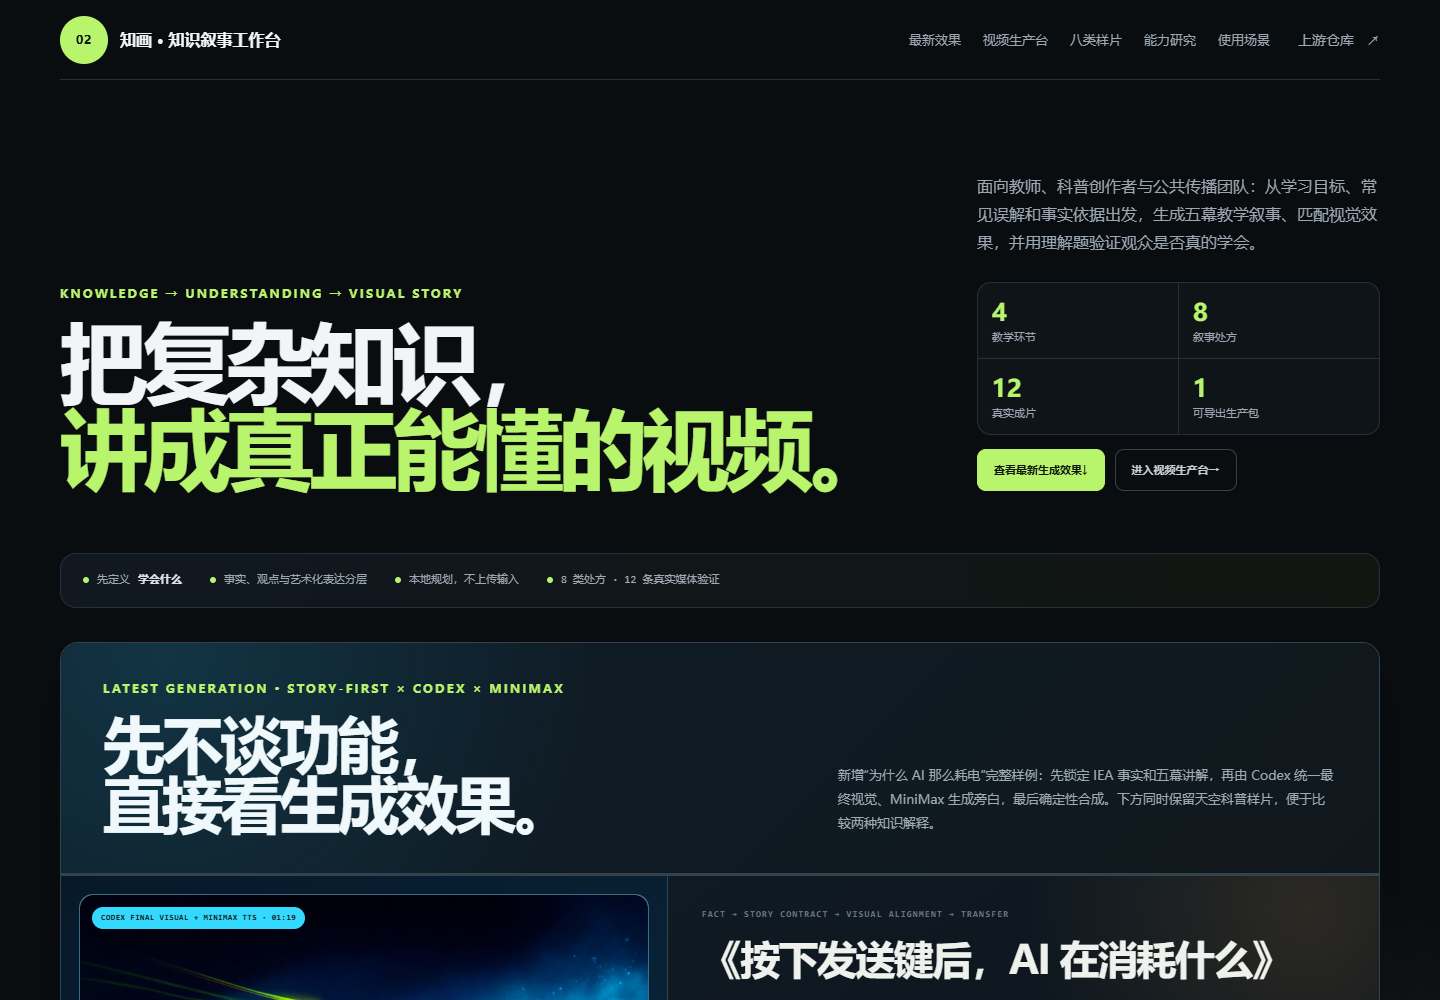
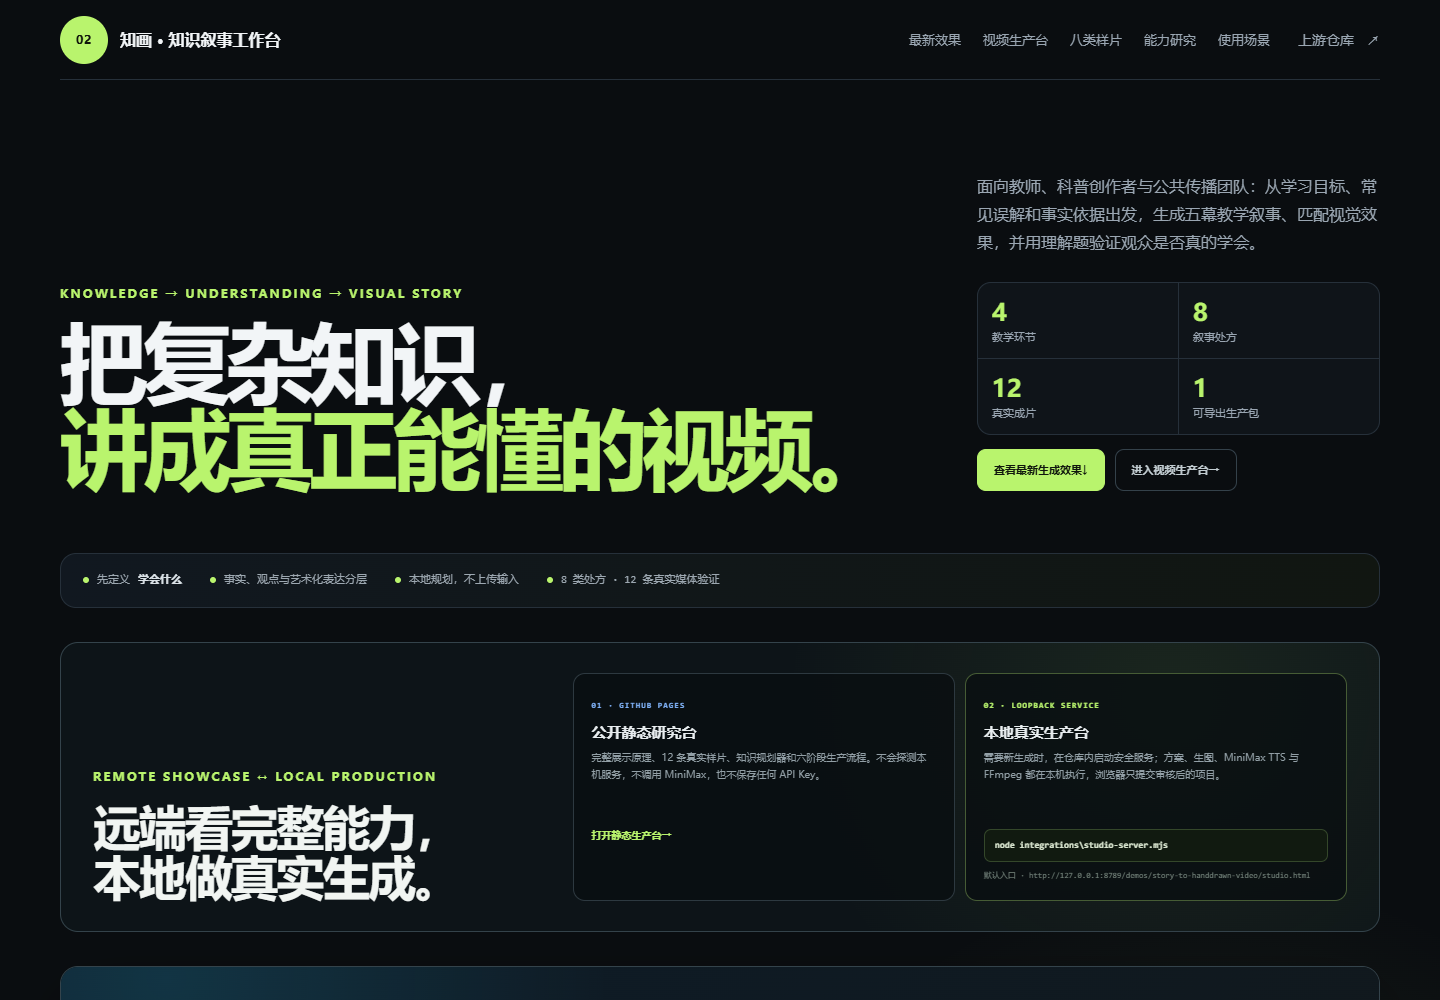
test: verify hosted and local runtime split

diff --git a/projects/story-to-handdrawn-video/PRODUCT_STUDIO_CONTRACT.md b/projects/story-to-handdrawn-video/PRODUCT_STUDIO_CONTRACT.md
@@ -343,8 +343,17 @@ Observable completion criteria: 远端页面明确显示静态演示与本地真
 
 | 用户意图 | 要求 | 表面 / 状态 | 证据 | 所属阶段 | 状态 | 下一动作 |
 | --- | --- | --- | --- | --- | --- | --- |
-| 远端静态部署 | Pages 保留完整研究、样片和生产流程 | research / studio remote | DOM、截图、资源请求 | 3 / 7 | continue | 补充静态展示说明并验证两页关联 |
-| 本地真实处理 | 页面明确给出本地服务命令和 URL | studio remote / demo | 文案、复制入口 | 4 / 6 | continue | 增加“本地真实生产”说明卡 |
-| 不误调用 localhost | HTTPS 远端不探测、不提交本机 HTTP API | studio remote | network request capture | 5 / 8 | continue | 将远端状态与 API 动作硬分流 |
-| 本地能力不回归 | localhost 同源继续检测服务并运行真实链路 | studio local / live | health、DOM、现有回归 | 5 / 9 | continue | 验证 8791 与远端双环境 |
-| 文档和发布 | README/DEPLOYMENT 与页面一致并进入 Pages | repository / github | diff、Actions、远端浏览器 | 9 | continue | 定向提交并发布 main |
+| 远端静态部署 | Pages 保留完整研究、样片和生产流程 | research / studio remote | DOM、截图、资源请求 | 3 / 7 | pass | 远端两页增加双模式说明并保持 12 条样片、知识规划器和六阶段流程 |
+| 本地真实处理 | 页面明确给出本地服务命令和 URL | studio remote / demo | 文案、复制入口 | 4 / 6 | pass | 首屏展示启动命令、默认 URL 和部署说明；远端按钮明确不执行生成 |
+| 不误调用 localhost | HTTPS 远端不探测、不提交本机 HTTP API | studio remote | network request capture | 5 / 8 | pass | 两页桌面/移动、状态按钮和简报交接的 loopback 请求均为 0 |
+| 本地能力不回归 | localhost 同源继续检测服务并运行真实链路 | studio local / live | health、DOM、现有回归 | 5 / 9 | pass | 8791 health、HTTP→HTTP、file→HTTP、七字段与 plan 请求继续通过 |
+| 文档和发布 | README/DEPLOYMENT 与页面一致并进入 Pages | repository / github | diff、Actions、远端浏览器 | 9 | pass | Pages run `32638350565` 成功，最终远端验收通过 |
+
+### Revision 10 验收证据
+
+- 双模式页面：研究页首屏后新增“远端看完整能力，本地做真实生成”；生产台在 Pages 显示“远端静态演示”和本地启动命令，在 loopback 显示“真实服务在线”。
+- 关联修复：远端研究页直接打开同域、同仓库前缀下的 `./studio.html`，不再探测 8791/8789；七项简报仍通过 URL fragment 交接，到达后立即清除载荷。
+- 远端能力边界：交接按钮显示“远端不执行生成”，效果契约显示“远端静态展示”；MiniMax/FFmpeg 只在本地生产台执行。
+- 正式发布：提交 `ded798e8f6ac5115fc27eb9cf02b247588a4813f`；GitHub Pages run [`32638350565`](https://github.com/yydshly/0822_githubcode_study/actions/runs/32638350565) 成功。
+- 远端浏览器：`browser-evidence/github-pages/report.json`；研究/生产两页 1440×1000、390×844，以及“研究 → 静态生产台”真实交接共五条路线全部通过，0px 溢出、0 浏览器错误、0 loopback 请求。
+- 本地回归：`browser-evidence/studio-handoff/report.json` 与 `browser-evidence/knowledge-product/report.json` 通过；真实服务 health 继续报告 Key 不进入浏览器。
